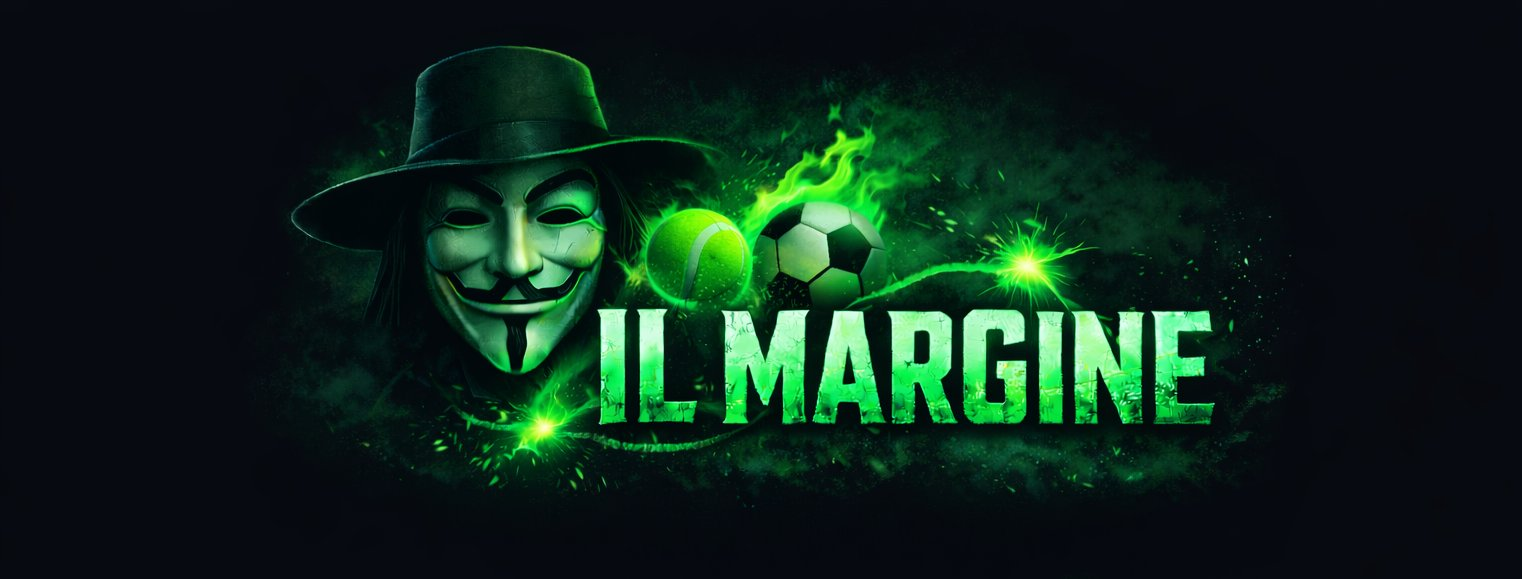
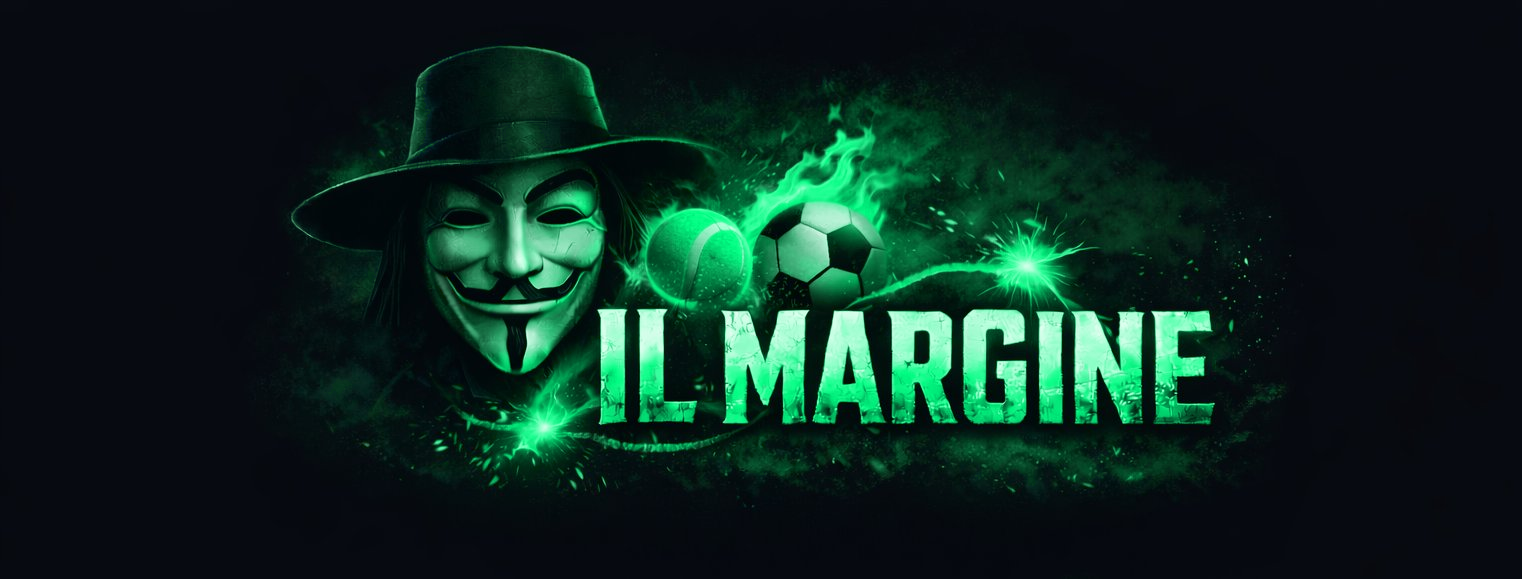
Refresh Il Margine brand colours

Changed region(s): [[0.3088, 0.4974, 0.8029, 0.8083], [0.3397, 0.1865, 0.7102, 0.5596], [0.3706, 0.0933, 0.4014, 0.1865]]

diff --git a/src/app/layout.tsx b/src/app/layout.tsx
@@ -22,8 +22,12 @@ export const viewport: Viewport = {
 export const metadata: Metadata = {
   metadataBase: new URL(BASE_URL),
   icons: {
-    icon: [{ url: "/favicon.png", sizes: "32x32", type: "image/png" }],
-    apple: "/favicon.png",
+    icon: [
+      { url: "/favicon.png", sizes: "32x32", type: "image/png" },
+      { url: "/favicon-128.png", sizes: "128x128", type: "image/png" },
+      { url: "/favicon-256.png", sizes: "256x256", type: "image/png" },
+    ],
+    apple: "/favicon-256.png",
   },
   title: {
     default: "Il Margine | Betting with Mathematical Edge",
@@ -42,9 +46,9 @@ export const metadata: Metadata = {
     description: "Professional betting methodology from a former odds compiler. Data driven betting tips on tennis markets and football player props. We identify value where bookmakers misprice markets and publish transparent results.",
     images: [
       {
-        url: `${BASE_URL}/banner.png`,
+        url: `${BASE_URL}/og.png`,
         width: 1200,
-        height: 400,
+        height: 630,
         alt: "Il Margine Smart Betting Tips and Analysis",
         type: "image/png",
       },
@@ -54,7 +58,7 @@ export const metadata: Metadata = {
     card: "summary_large_image",
     title: "Betting with Mathematical Edge | Tennis and Football Player Props",
     description: "Professional betting methodology from a former odds compiler. Data driven betting tips on tennis markets and football player props. We identify value where bookmakers misprice markets and publish transparent results.",
-    images: [`${BASE_URL}/banner.png`],
+    images: [`${BASE_URL}/og.png`],
   },
 };
 
@@ -67,6 +71,9 @@ export default function RootLayout({
     <html lang="en">
       <head>
         <link rel="icon" href="/favicon.png" sizes="32x32" type="image/png" />
+        <link rel="icon" href="/favicon-128.png" sizes="128x128" type="image/png" />
+        <link rel="icon" href="/favicon-256.png" sizes="256x256" type="image/png" />
+        <link rel="apple-touch-icon" href="/favicon-256.png" />
         <link rel="preconnect" href="https://www.googletagmanager.com" />
         <link rel="dns-prefetch" href="https://www.googletagmanager.com" />
         <meta name="msvalidate.01" content="FD4A9F8A7202C71E5465E6A51F6B8F62" />

diff --git a/src/app/globals.css b/src/app/globals.css
@@ -8,7 +8,10 @@
 :root {
   --background: #0f1117;
   --foreground: #f1f5f9;
-  --accent: #22c55e;
+  --accent: #57d196;
+  --brand-green: #57d196;
+  --brand-glow: #34d399;
+  --brand-bg: #05080b;
 }
 
 @theme inline {
@@ -48,6 +51,6 @@ body {
 }
 
 ::selection {
-  background: #22c55e;
+  background: #57d196;
   color: #000;
 }

diff --git a/data/brand/brand-asset-audit-2026-05-18.md b/data/brand/brand-asset-audit-2026-05-18.md
@@ -1,0 +1,45 @@
+# Brand Asset Audit - 2026-05-18
+
+## Scope
+
+Recolour the active Il Margine brand assets to the new mint-green direction while preserving the existing logo structure.
+
+Primary brand green: `#57d196`
+Secondary glow: `#34d399`
+Dark background: `#05080b`
+
+## Active References Checked
+
+- `src/components/GlobalNav.tsx` uses `/logo.png`
+- `src/components/Footer.tsx`, `src/components/PageHomeLink.tsx`, and `src/components/ChatWidget.tsx` use `/favicon.png`
+- `src/components/StructuredData.tsx` uses `/logo.png`
+- Most route metadata uses `/og.png`
+- Root metadata previously used `/banner.png`; it now uses `/og.png` for correct 1200x630 social-card dimensions
+- `/bookmakers` and World Cup penalty pages still use `/banner.png`, which has been recoloured in-place
+
+## Files Replaced
+
+- `public/logo.png` -> recoloured 256x73 header logo
+- `public/favicon.png` -> recoloured 32x32 square icon, with legacy white corner artefacts removed
+- `public/favicon-128.png` -> recoloured 128x128 square icon, with legacy white corner artefacts removed
+- `public/favicon-256.png` -> recoloured 256x256 square icon, with legacy white corner artefacts removed
+- `public/banner.png` -> recoloured 1522x579 banner
+- `public/og.png` -> recoloured and resized 1200x630 social card
+
+The uploaded zip was used as colour direction only. The shipped assets preserve the existing Il Margine logo structure rather than adopting the alternate redesigned mark from the zip.
+
+## Metadata Updated
+
+- `src/app/layout.tsx` now declares 32, 128, and 256 favicon sizes
+- Apple touch icon now points to `favicon-256.png`
+- Root OpenGraph/Twitter image now points to `og.png` with 1200x630 dimensions
+
+## Intentionally Not Changed
+
+- `public/banner-mind-the-margin.png`: no active code reference found in `src/`; left unchanged to avoid altering unused archival artwork without a direct replacement.
+- Market/team/bookmaker/league logos: independent third-party marks, not Il Margine brand assets.
+- Tailwind `emerald-*` UI classes: left intact because they encode generic positive/status semantics across the app. Only the global `--accent` and selection colour were updated to `#57d196`.
+
+## Risk
+
+Low. The replacement files keep the same filenames and expected dimensions for the active site assets. No route logic, betting logic, data pipeline, or public signal code changed.
